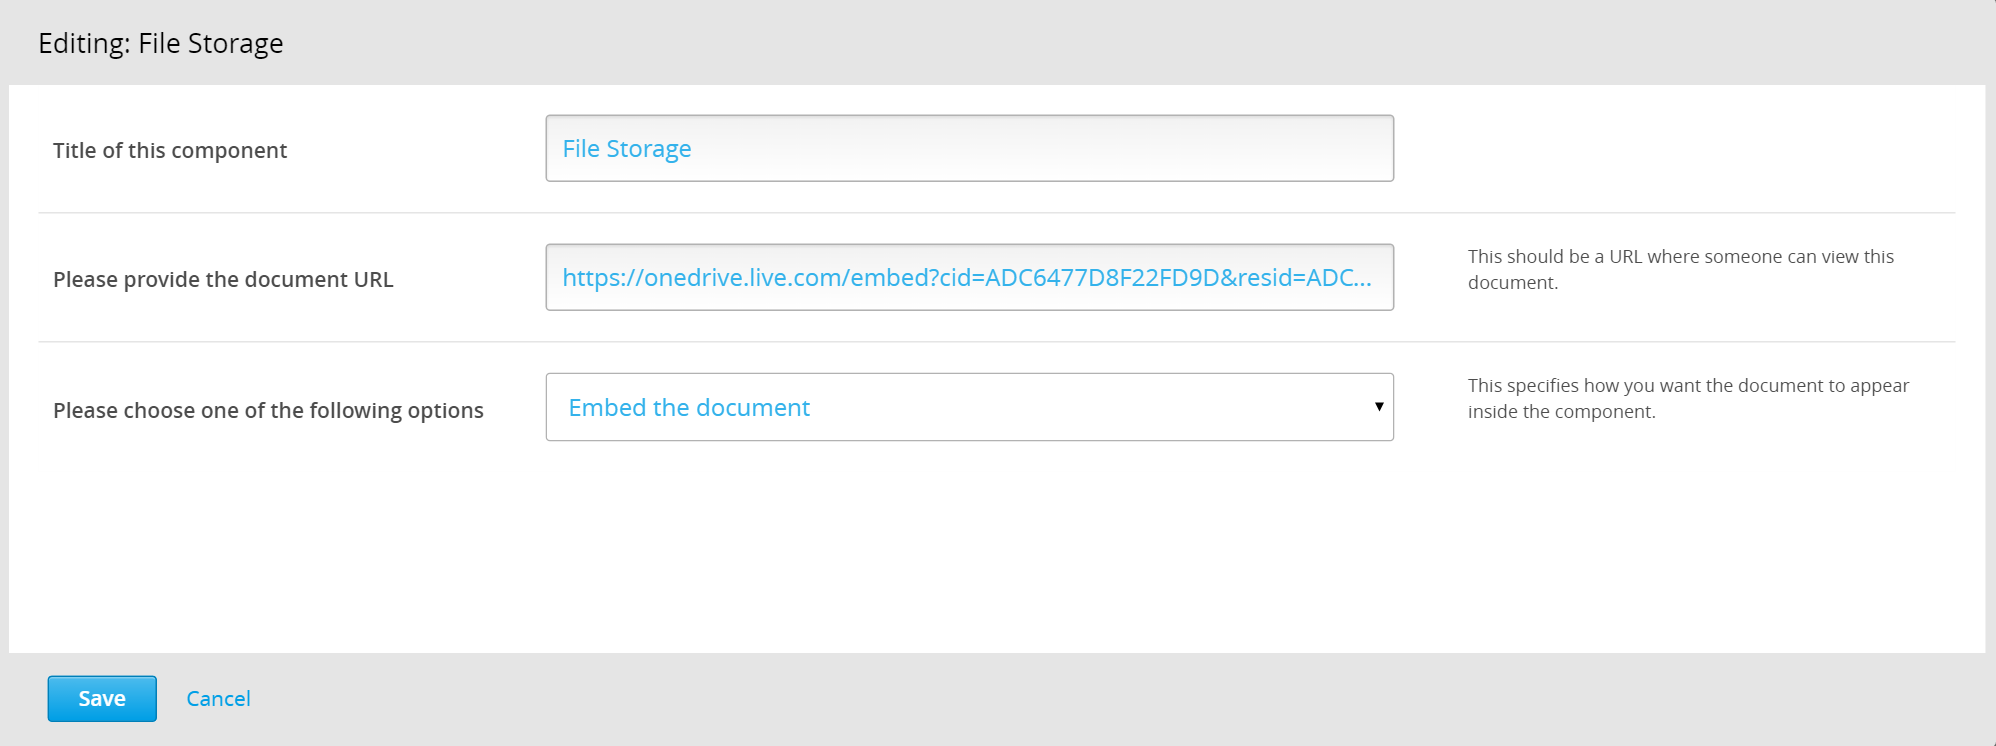
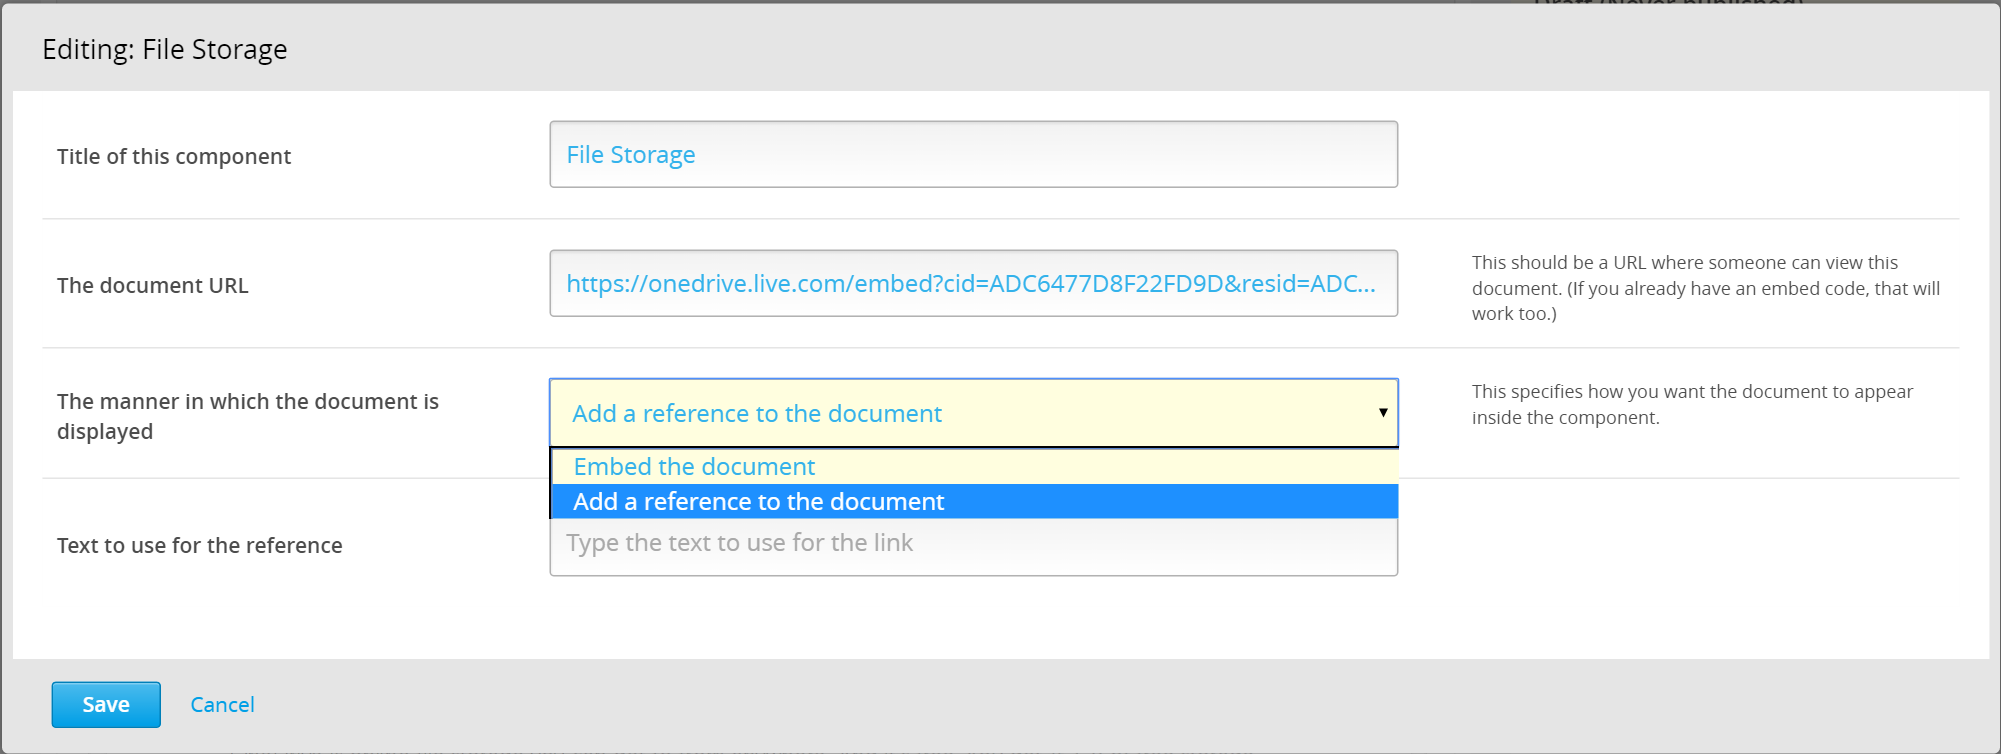
updated readme to reflect recent changes to the code

diff --git a/README.md b/README.md
@@ -1,9 +1,9 @@
 File Storage XBlock
 ===================
 
-The “File Storage XBlock” allows course staffers to add files stored in various internet file storage services to the courseware (courseware, course info and syllabus) by adding a link through an advanced component that they create in edX’s Studio authoring tool. The files can be added either as embedded content, or as links to the files in their original location, or as links to the files after uploading them to the edX server itself. 
+The “File Storage XBlock” allows course content authors to add files stored in various internet file storage services to the course. The files can be added either as embedded content or as links to the files in their original location.
 
-Students will view these files in their Open edX or edX.org courses. 
+Students can view these files in their Open edX or edX.org courses.
 
 Installation
 ------------
@@ -41,16 +41,14 @@ After you've inserted the File Storage XBlock, a default document will be insert
 
 To change the inserted, XBlock click on the `Edit` button on the upper-right corner of the File Storage XBlock. This will bring up the edit dialog where you can change the display name of the component as well as the  document that is being inserted and how you want it to be embedded.
 
-![Edit inserted OneDrive for Business document](docs/img/editme.png)
+![Edit inserted document](docs/img/editme.png)
 
-Update the component name to the text you want to be displayed.
-Enter the URL to the file from its original location (in YouTube or OneDrive or Google Drive or Dropbox etc.)
+- Update the component name to the text you want to be displayed.
+- Enter the URL to the file from its original location (in YouTube or OneDrive or Google Drive or Dropbox etc.) Note that the file must be publicly accessible. You will have to follow the directions provided by the file storage service where the file is stored to make the file public. Also, note that you do not need to obtain an embed code for the file yourself. The File Storage XBlock can obtain it automatically for many services commonly used for educational content. On hte other hand, if you already have an embed code, you can certainly enter that and the File Storage XBlock will use it instead of the URL. 
 
-You will be able to select the way you want the file to be displayed inside the xblock:
-
-- As a link to the file in its original location.
-- Upload the file from its origial location to the edX Files and Uploads area and then insert a link to it. 
-- Embed the file in its original loaction inside an iframe.
+- Select the way you want the file to be displayed inside the xblock:
+    - Embedded inside an iframe OR
+    - As a link to the file in its original location
 
 After you click save, your File Storage XBlock will have been updated with the new values.
 
@@ -70,10 +68,10 @@ At present, the following services are explicitly supported:
 - Box.com
 
 More services can be added easily. Even if a service is not explicitly supported, an attempt will be made to allow you to include the file, but it may fail depending upon the level of support provided by the service.
-Also note that some of these services do not support embedding and some do not support uploading to the edX server. Also, some may need their own login before you can view the files in their original location.
+Also note that some may need their own login before you can view the files in their original location.
 
 ![Updated studio view](docs/img/xblock_studio_insert.png)
 
-At this point simply click on the `Publish` button and the OneDrive for Business document will be available for students to view it from the LMS.
+At this point simply click on the `Publish` button and the file will be available for students to view it from the LMS.
 
 ![Published File Storage XBlock in LMS](docs/img/student_view.png)
